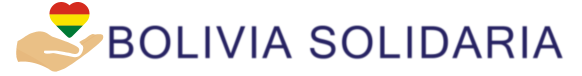
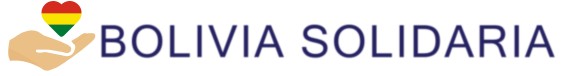
botones y header corregido y probado en mobile

Changed region(s): [[0.0, 0.0, 0.9897, 0.9474]]

diff --git a/ngx-admin/src/app/@theme/components/header/header.component.scss b/ngx-admin/src/app/@theme/components/header/header.component.scss
@@ -4,72 +4,31 @@
 
 @include nb-install-component() {
   display: flex;
-  justify-content: space-between;
   width: 100%;
 
-  .imagen {
-    width: 100%;
-    height: auto;
-  }
 
-  .buttons-right {
-    float: right;
-  }
 
   .logo-container {
+    padding: 2px 2px;
     display: flex;
-    width: auto;
-  }
-
-  nb-action {
-    height: auto;
-    display: flex;
-    align-content: center;
-  }
-
-  nb-user {
-    cursor: pointer;
-  }
-
-  ::ng-deep nb-search button {
-    padding: 0!important;
   }
 
   .header-container {
     display: flex;
     align-items: center;
     width: 100%;
+  }
 
-    .sidebar-toggle {
-      @include nb-ltr(padding-right, 1.25rem);
-      @include nb-rtl(padding-left, 1.25rem);
-      text-decoration: none;
-      color: nb-theme(text-hint-color);
-      nb-icon {
-        font-size: 1.75rem;
-      }
-    }
-
-    .logo {
-      font-size: 1.75rem;
-      white-space: nowrap;
-      text-decoration: none;
+  @media (max-width: 768px) {
+    .btn-responsive {
+      padding:2px 4px;
+      font-size:92%;
+      line-height: 1.8;
+      border-radius:3px;
     }
   }
 
-  @include media-breakpoint-down(sm) {
-    .control-item {
-      display: none;
-    }
-    .user-action {
-      border: none;
-      padding: 0;
-    }
-  }
 
-  @include media-breakpoint-down(is) {
-    nb-select {
-      display: none;
-    }
-  }
+  
+
 }

diff --git a/ngx-admin/src/app/@theme/components/header/header.component.html b/ngx-admin/src/app/@theme/components/header/header.component.html
@@ -1,18 +1,19 @@
-<div class="header-container">
-  <div class="col-xs-8 col-sm-8">
-    <div class="logo-container">
-      <a class="logo" href="#" (click)="navigateHome()">
-        <img class="imagen" src="assets/images/index.png" />
-      </a>
-    </div>
+<div class="header-container ">
+  <div class="logo-container">
+    <a class="logo" href="#" (click)="navigateHome()">
+      <img class="imagen" srcset="assets/images/index.png 1x, assets/images/index_movil.png 4x" />
+    </a>
   </div>
 </div>
 
+<div class="header-container d-flex justify-content-end">
+  <div class="row">
+    <div class="btn-group">
+      <button class="btn  btn-responsive btn-sm btn-lock" status="info" nbButton (click)="onClickQuieroAyudar()">Quiero
+        Ayudar</button>
+      <button class="btn btn-responsive btn-sm btn-locl" status="danger" nbButton
+        (click)="onClickNecesitoAyuda()">Necesito Ayuda</button>
+    </div>
 
-
-<div class="header-container d-flex flex-row-reverse">
-  <div class=" bd-highlight">
-    <button nbButton (click)="onClickQuieroAyudar()" status="info">Quiero Ayudar</button>
-    <button nbButton (click)="onClickNecesitoAyuda()" status="danger">Necesito Ayuda</button>
   </div>
 </div>

diff --git a/ngx-admin/src/app/pages/bolivia-solidaria/bolivia.solidaria.scss b/ngx-admin/src/app/pages/bolivia-solidaria/bolivia.solidaria.scss
@@ -1,16 +1,21 @@
-.validation-checkboxes {
+@import "~bootstrap/scss/mixins/breakpoints";
+@import "~@nebular/theme/styles/global/breakpoints";
+@import "../../@theme/styles/themes.scss";
+
+@include nb-install-component() {
+  .validation-checkboxes {
     display: flex;
     margin: 0 -0.5rem;
     text-align: center;
     justify-content: center;
     align-items: center;
-    background-color: #D3D3D3;
-  
+    background-color: #d3d3d3;
+
     > * {
       margin: 0 0.5rem;
     }
   }
-  
+
   .custom-checkbox {
     background-color: white;
     color: white;
@@ -21,11 +26,29 @@
     color: white;
     background-color: white;
     background: white;
-
   }
 
   .box {
-      color: white;
-      background: white;
-      background-color: white;
+    color: white;
+    background: white;
+    background-color: white;
   }
+
+  @media only screen and (min-width: 320px) {
+    .header-text {
+      background-color: #d3d3d3;
+      text-align: left;
+      font-size: 22px;
+      font-weight: bold;
+    }
+  }
+
+  @media only screen and (max-width: 768px) {
+    .header-text {
+      background-color: #d3d3d3;
+      font-size: 1em;
+      text-align: left;
+      font-weight: bold;
+    }
+  }
+}

diff --git a/ngx-admin/src/app/pages/bolivia-solidaria/bolivia.solidaria.component.html b/ngx-admin/src/app/pages/bolivia-solidaria/bolivia.solidaria.component.html
@@ -2,9 +2,9 @@
 
   <div class="column">
     <div class="validation-checkboxes">
-      <h3 style=" background-color: #D3D3D3; font-size: 6vmin; text-align: left;">Zonas que necesitan tu ayuda</h3>
+      <div class="header-text"><label>Zonas que necesitan tu ayuda</label></div>
       <div class="row">
-        <nb-checkbox status="danger" [value]="true" check (checkedChange)="onClickSolicitudes($event)"><span> Solicitudes de ayuda</span>
+        <nb-checkbox status="danger" value="true" check (checkedChange)="onClickSolicitudes($event)"><span> Solicitudes de ayuda</span>
         </nb-checkbox>
         <nb-checkbox status="info" (checkedChange)="onClickCentrosAcopio($event)"><span>Centros de Acopio</span>
         </nb-checkbox>

diff --git a/ngx-admin/src/app/pages/maps/gmaps/gmaps.component.ts b/ngx-admin/src/app/pages/maps/gmaps/gmaps.component.ts
@@ -44,15 +44,21 @@ export class GmapsComponent {
       this.position = userLatLng;
       this.map.center = userLatLng;
 
+      alert(userLatLng.toJSON());
+
     }
+
+    
 
     if (navigator.geolocation) {
       navigator.geolocation.getCurrentPosition(geolocationSuccess, this.geolocationError);
+    }else {
+      alert('Geolocation is not supported')
     }
   }
 
   geolocationError(error) {
-    console.log(error);
+    alert(error.message);
   }
 
   onClickMap(event) {
